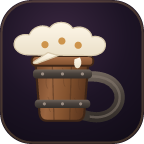
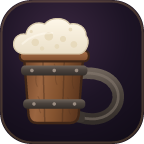
fix(brand): tankard foam v3 + preview page no longer covers the status line
Foam: the user read v1's rounded cloud + pointed tail + neat row of three dots
as a CHAT BUBBLE, not a head of beer. v2 replaced it with a lumpy mound plus two
overflow drips over the rim; at mark size those drips read as FANGS hanging in
the muzzle. v3 keeps only what works: an irregular mound of foam sealed to the
rim, scattered bubbles of mixed size as texture, and a sheen highlight — no
tail, no dot row, no hanging drips. Same mark feeds the boot charm, the app
icons and the favicon.

Preview page: the icon strip was position:fixed over the boot block, so it
covered the rotating status line and the progress bar (visible in the user's
screenshot). loader.css now puts the branded background/centering on
`#preloader, .mt-boot-screen`, and the preview uses .mt-boot-screen at
min-height 100dvh with the icon strip in normal flow below it. Never overlay the
thing you are asking someone to review.

Also re-derived the mark's visual bbox from the narrower foam (60..234.5 x
49..210.5) so the icon tile padding stays even.

diff --git a/public/fork-boot-preview.html b/public/fork-boot-preview.html
@@ -4,31 +4,48 @@
     <meta charset="utf-8">
     <meta name="viewport" content="width=device-width, initial-scale=1, viewport-fit=cover">
     <title>MobileTavern — boot screen preview</title>
-    <!-- FORK: live preview of the boot screen. Loads the REAL loader.css, so what you
-         see here is exactly what #preloader + the app-init splash render. Open it at
-         http://127.0.0.1:8010/fork-boot-preview.html — no restart needed. -->
+    <!-- FORK: live preview of the boot screen. Loads the REAL loader.css, so what you see
+         here is what #preloader + the app-init splash render. Open it at
+         http://127.0.0.1:8010/fork-boot-preview.html — no restart needed.
+
+         Layout note: this page uses .mt-boot-screen (the same rules as #preloader, minus the
+         fixed positioning) at min-height 100dvh, with the icon strip in NORMAL FLOW below it.
+         v1 put the strip position:fixed over the boot block and it covered the status line and
+         progress bar — never overlay the thing you are asking someone to review. -->
     <link rel="stylesheet" type="text/css" href="css/loader.css">
     <link rel="icon" type="image/x-icon" href="favicon.ico">
     <style>
+        html, body { margin: 0; background: #0b0710; }
         .preview-tag {
-            position: fixed; top: 10px; left: 12px; z-index: 1000000;
+            position: absolute; top: 10px; left: 12px;
             font: 500 11px/1.4 system-ui, sans-serif; letter-spacing: .12em;
-            color: #e8b563; opacity: .65; text-transform: uppercase;
+            color: #e8b563; opacity: .6; text-transform: uppercase;
+        }
+        .preview-screen { position: relative; min-height: 100dvh; }
+        .preview-strip {
+            padding: 22px 14px 34px;
+            border-top: 1px solid rgba(232, 181, 99, .16);
+            background: #0b0710;
+        }
+        .preview-strip h2 {
+            margin: 0 0 16px; text-align: center;
+            font: 600 11px/1 system-ui, sans-serif; letter-spacing: .18em;
+            color: rgba(244, 234, 217, .45); text-transform: uppercase;
         }
         .preview-icons {
-            position: fixed; bottom: 0; left: 0; right: 0; z-index: 1000000;
             display: flex; align-items: flex-end; justify-content: center;
-            gap: 18px; padding: 14px 12px 18px; flex-wrap: wrap;
+            gap: 16px; flex-wrap: wrap;
         }
-        .preview-icons figure { margin: 0; display: flex; flex-direction: column; align-items: center; gap: 6px; }
-        .preview-icons img { display: block; border-radius: 22%; }
+        .preview-icons figure { margin: 0; display: flex; flex-direction: column; align-items: center; gap: 7px; }
+        .preview-icons img { display: block; }
+        .preview-icons .tile { border-radius: 22%; }
         .preview-icons figcaption {
-            font: 500 10px/1 system-ui, sans-serif; color: rgba(244,234,217,.5); letter-spacing: .08em;
+            font: 500 10px/1 system-ui, sans-serif; color: rgba(244, 234, 217, .5); letter-spacing: .08em;
         }
     </style>
 </head>
-<body class="no-blur" style="margin:0; background:#141019;">
-    <div id="preloader">
+<body class="no-blur">
+    <div class="preview-screen mt-boot-screen">
         <div class="mt-boot">
             <div class="mt-boot-glow" aria-hidden="true"></div>
             <img class="mt-boot-mark" src="img/mt-logo-charm.png" alt="MobileTavern">
@@ -37,16 +54,21 @@
             <div class="mt-boot-status" id="preview-status">Setting the table…</div>
             <div class="mt-boot-bar" aria-hidden="true"><i></i></div>
         </div>
-
         <div class="preview-tag">boot screen preview</div>
+    </div>
+
+    <div class="preview-strip">
+        <h2>App icon &amp; favicon sizes</h2>
         <div class="preview-icons">
-            <figure><img src="favicon.ico" width="16" height="16" alt=""><figcaption>16</figcaption></figure>
-            <figure><img src="img/apple-icon-57x57.png" width="32" height="32" alt=""><figcaption>32</figcaption></figure>
-            <figure><img src="img/apple-icon-57x57.png" width="48" height="48" alt=""><figcaption>48</figcaption></figure>
-            <figure><img src="img/apple-icon-57x57.png" width="57" height="57" alt=""><figcaption>57</figcaption></figure>
-            <figure><img src="img/apple-icon-114x114.png" width="78" height="78" alt=""><figcaption>114</figcaption></figure>
-            <figure><img src="img/apple-icon-192x192.png" width="104" height="104" alt=""><figcaption>192</figcaption></figure>
+            <figure><img class="tile" src="img/apple-icon-57x57.png" width="16" height="16" alt=""><figcaption>16</figcaption></figure>
+            <figure><img class="tile" src="img/apple-icon-57x57.png" width="32" height="32" alt=""><figcaption>32</figcaption></figure>
+            <figure><img class="tile" src="img/apple-icon-57x57.png" width="48" height="48" alt=""><figcaption>48</figcaption></figure>
+            <figure><img class="tile" src="img/apple-icon-57x57.png" width="57" height="57" alt=""><figcaption>57</figcaption></figure>
+            <figure><img class="tile" src="img/apple-icon-114x114.png" width="76" height="76" alt=""><figcaption>114</figcaption></figure>
+            <figure><img class="tile" src="img/apple-icon-192x192.png" width="96" height="96" alt=""><figcaption>192</figcaption></figure>
+            <figure><img src="img/mt-tankard.png" height="86" alt=""><figcaption>tankard</figcaption></figure>
             <figure><img src="img/logo.png" width="86" height="86" alt=""><figcaption>logo.png</figcaption></figure>
+            <figure><img src="img/mt-logo-charm.png" height="120" alt=""><figcaption>boot mark</figcaption></figure>
         </div>
     </div>
 

diff --git a/public/css/loader.css b/public/css/loader.css
@@ -97,7 +97,8 @@
    from a 320px phone to a wide desktop window.
    ========================================================================== */
 
-#preloader {
+#preloader,
+.mt-boot-screen {
     display: flex;
     align-items: center;
     justify-content: center;
